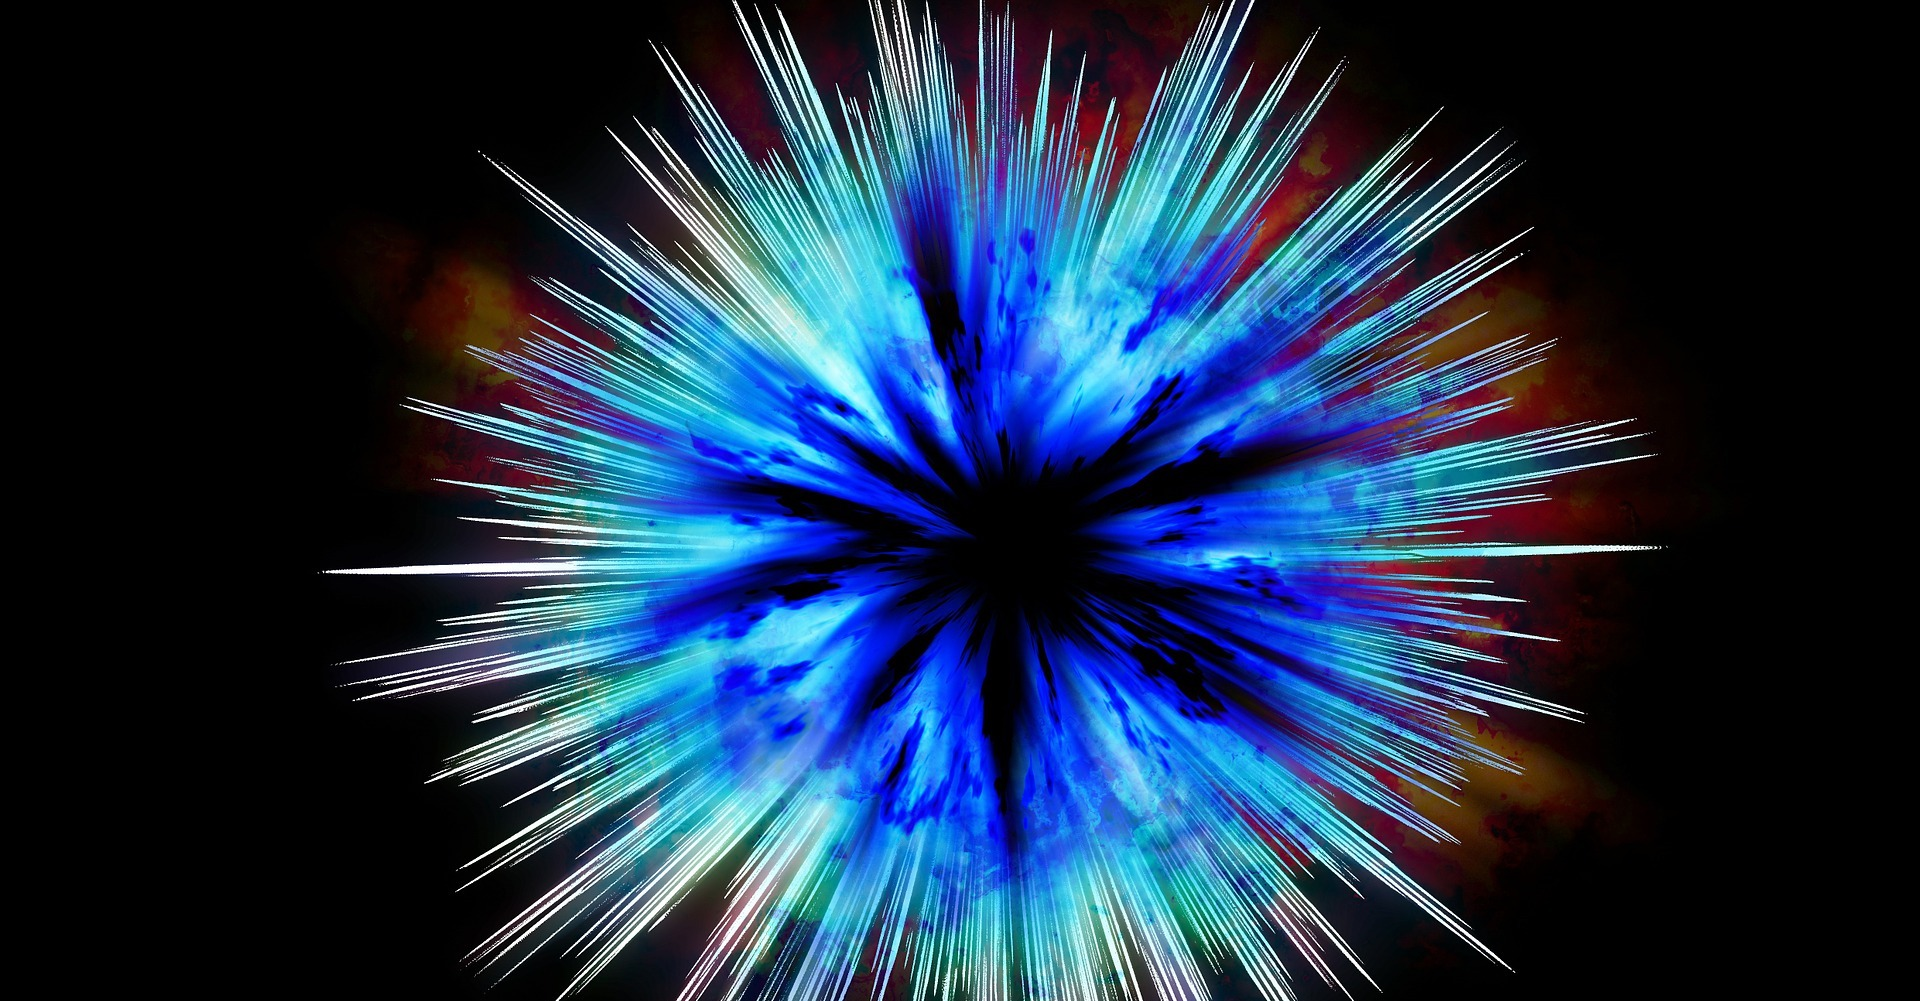
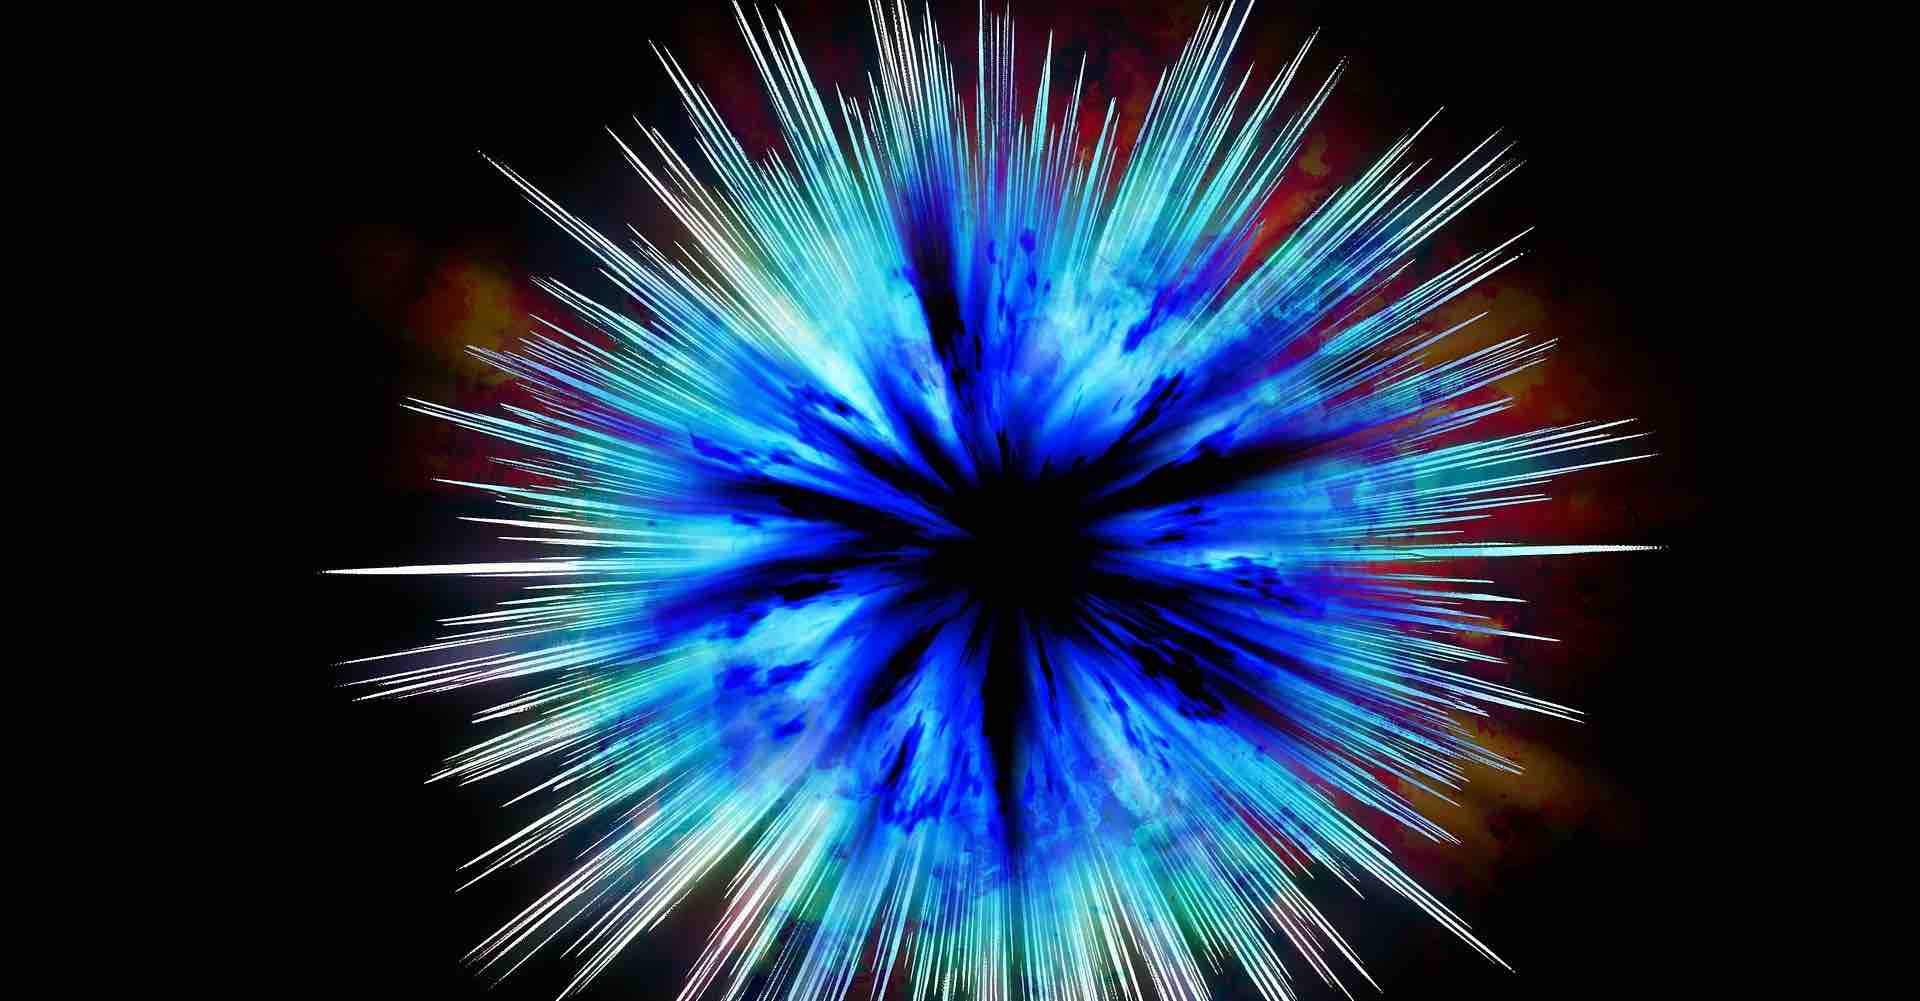
resolution of images lowered

diff --git a/blog.html b/blog.html
@@ -128,7 +128,7 @@
                             </div></div>
                             <div class="col-md-3">
                                 <div class="single-post">
-                                    <img src="Bilder/fallschirm.png" alt="">
+                                    <img src="Bilder/fallschirm.jpg" alt="">
                                     <h3><a href="https://www.jannik-schilling.com/alltag/Fallschirmspringer">Der Fallschirmsprung - Realistisch betrachtet.</a></h3>
                                     <h4><span>Veröffentlich von: <span class="author-name">Jannik Schilling</span></span>
                                     </h4>

diff --git a/index.html b/index.html
@@ -299,7 +299,7 @@ MathJax.Hub.Config({tex2jax: {inlineMath: [['$','$'], ['\\(','\\)']]}});
             <div class="col-sm-6 col-lg-4 col-xl-4">
                 <div class="single-home-blog">
                     <div class="card">
-                        <img src="Bilder/fallschirm.png" class="card-img-top" alt="blog">
+                        <img src="Bilder/fallschirm.jpg" class="card-img-top" alt="blog">
                         <div class="card-body">
                             <a href="https://www.jannik-schilling.com/alltag/fallschirmspringer" class="btn_4">Physik im Alltag</a>
                             <a href="blog.html">

diff --git a/sonstiges/alltag.html b/sonstiges/alltag.html
@@ -81,7 +81,7 @@
                           </div>
                           <div class="col-md-3">
                               <div class="single-post">
-                                  <img src="Bilder/fallschirm.png" alt="">
+                                  <img src="Bilder/fallschirm.jpg" alt="">
                                   <h3><a href="https://www.jannik-schilling.com/Fallschirmspringer">Der Fallschirmsprung - Realistisch betrachtet.</a></h3>
                                   <h4><span>Veröffentlich von: <span class="author-name">Jannik Schilling</span></span>
                                   </h4>
